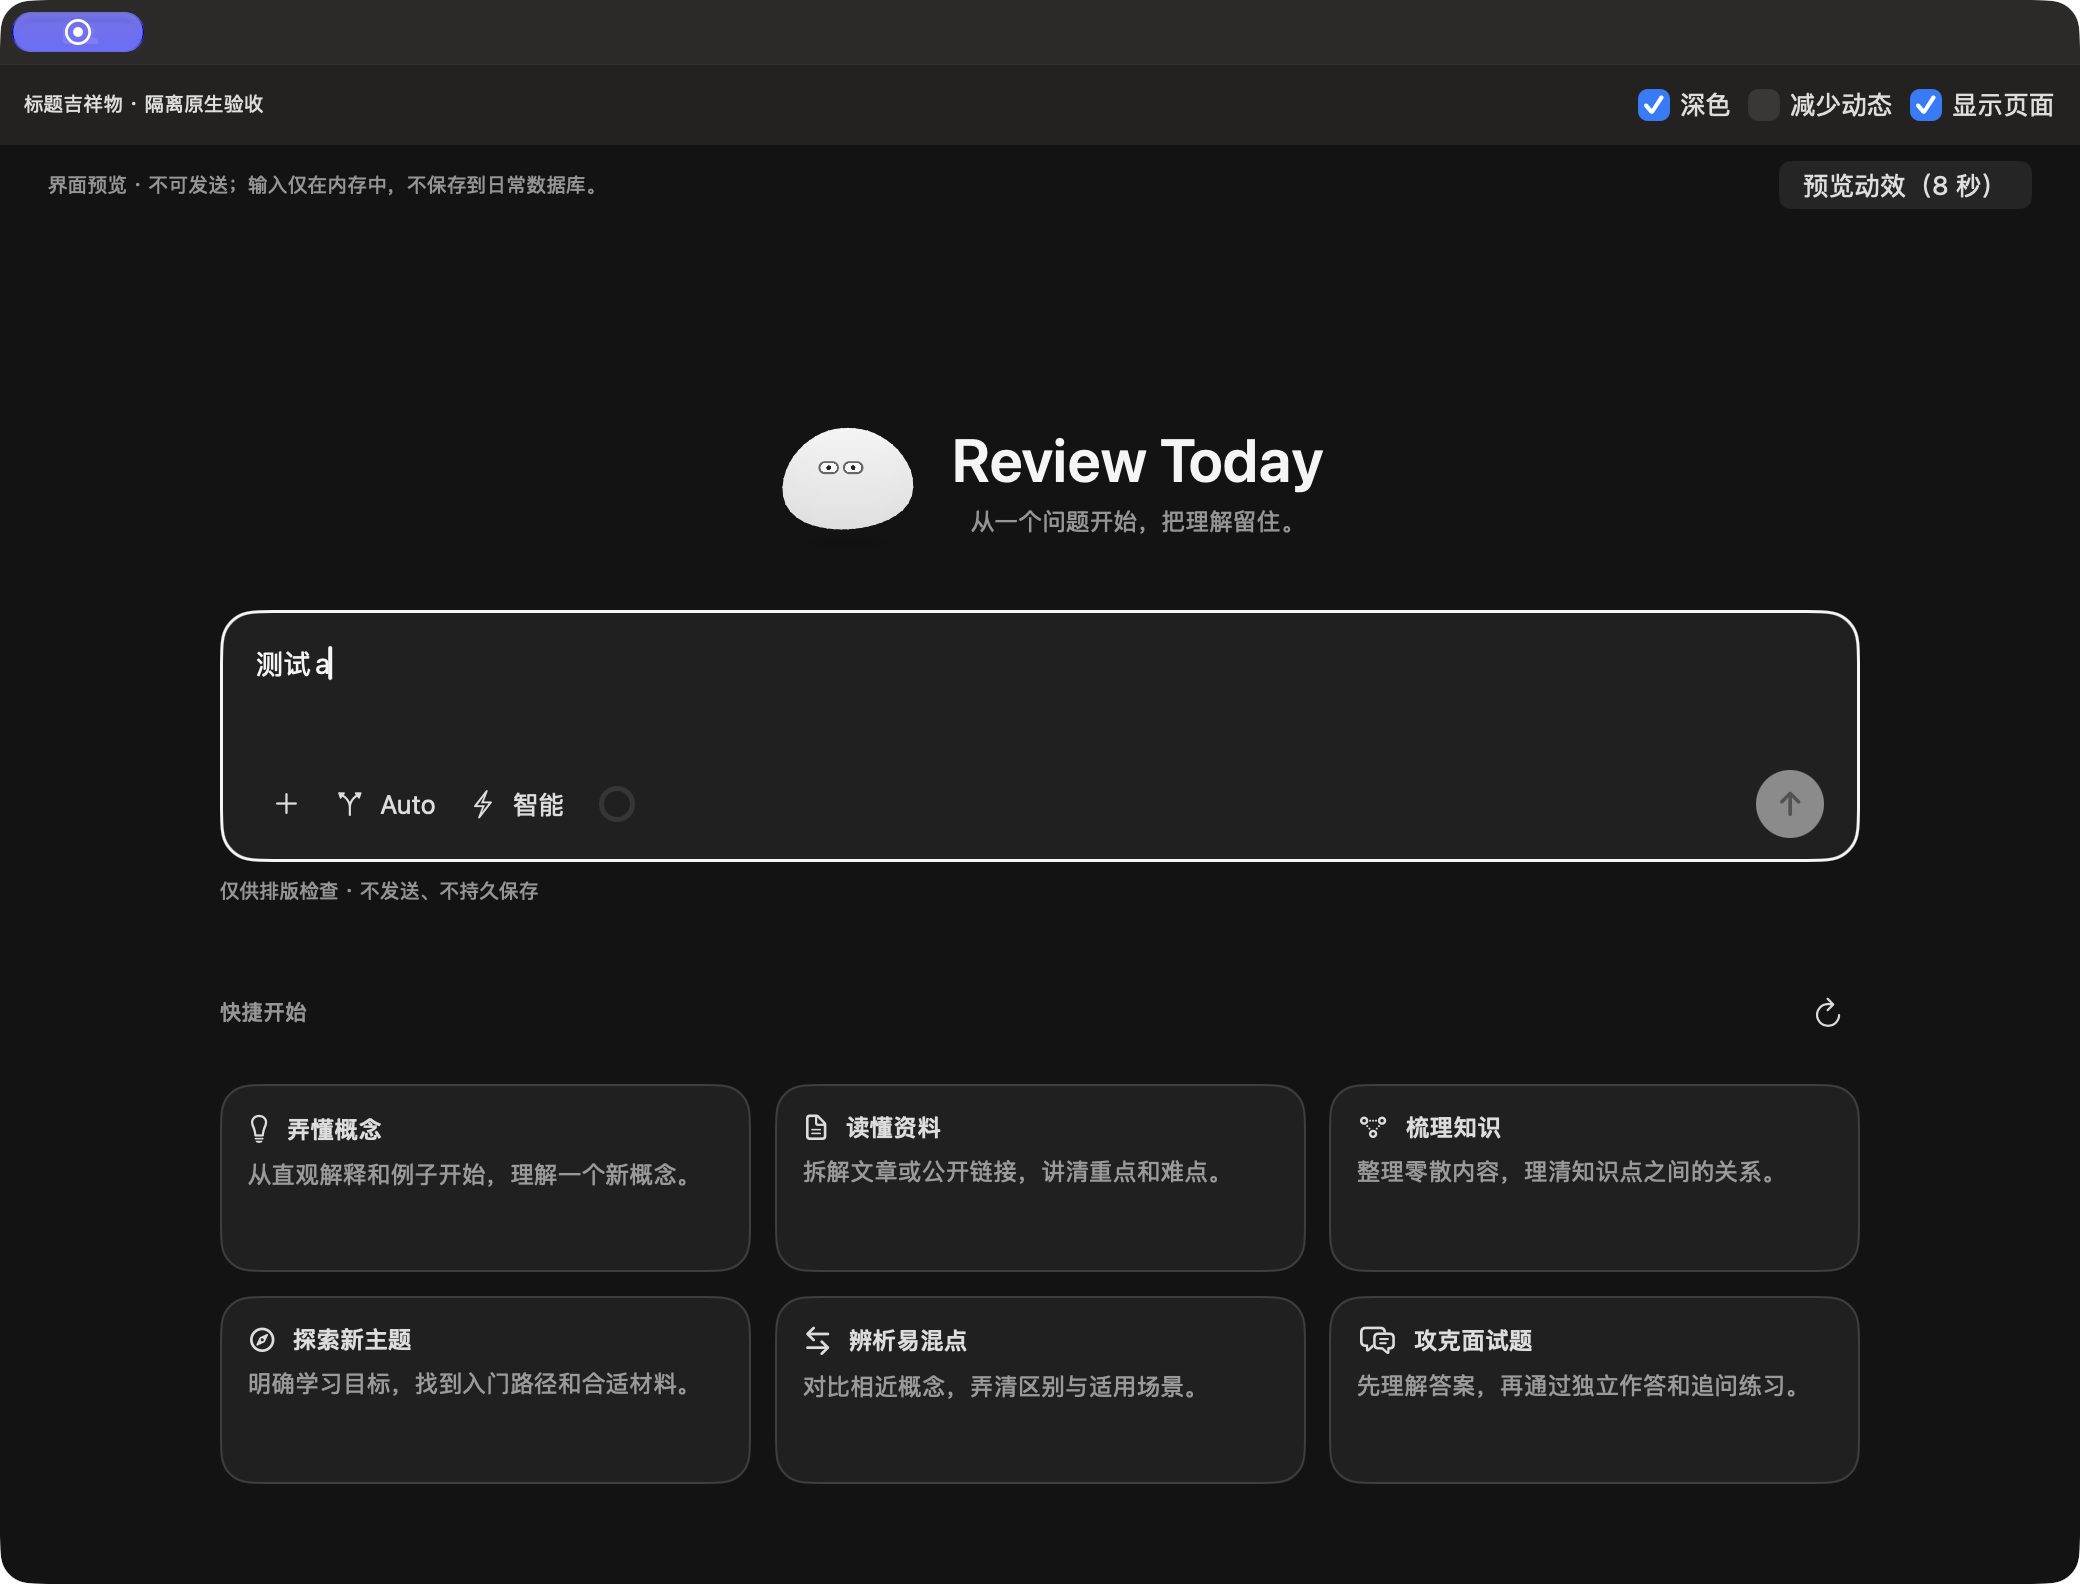
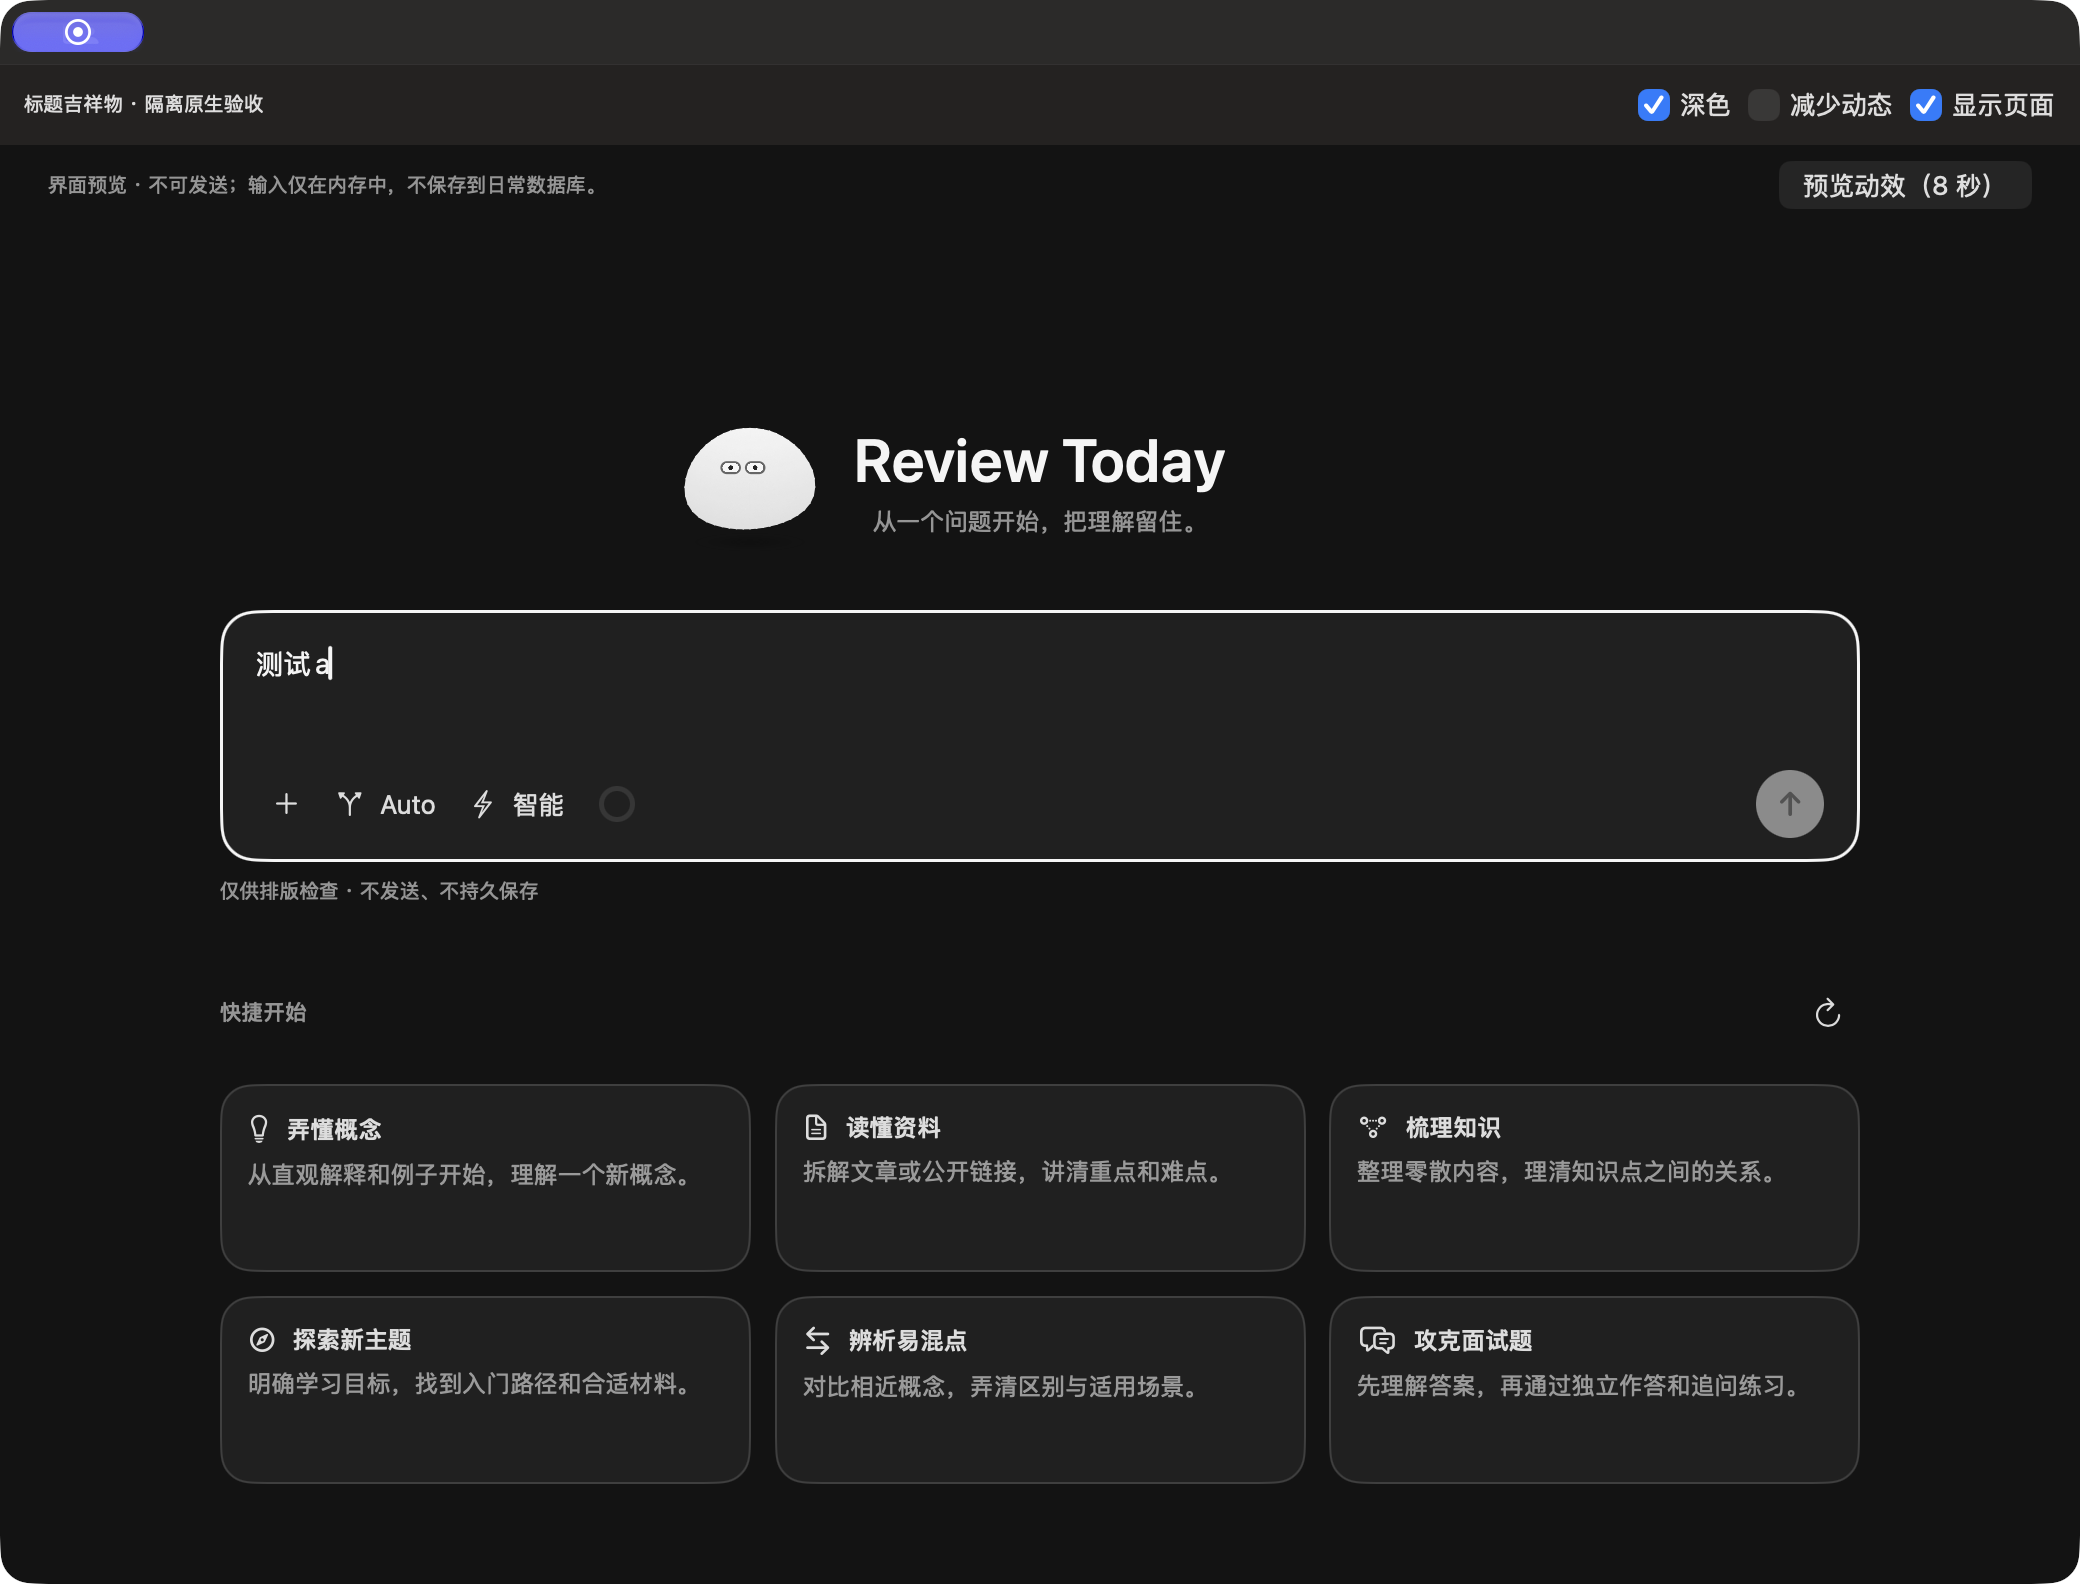
以产品名和标语为基准居中 Agent 标题

Changed region(s): [[0.3125, 0.2475, 0.6562, 0.3403]]

diff --git a/Review_Today/AgentTitleMascot.swift b/Review_Today/AgentTitleMascot.swift
@@ -107,6 +107,9 @@ struct AgentLandingTitle: View {
                 Text("从一个问题开始，把理解留住。").font(.callout).foregroundStyle(.secondary)
             }
             .layoutPriority(1)
+            // Match the decoration's width so the text owns the content centerline.
+            Color.clear.frame(width: 92, height: 1)
+                .allowsHitTesting(false).accessibilityHidden(true)
         }
         .multilineTextAlignment(.center)
         .fixedSize(horizontal: false, vertical: true)

diff --git a/DESIGN.md b/DESIGN.md
@@ -2,15 +2,17 @@
 
 ## Agent 标题区 Mr. B（2026-09-15，首轮已实现／自测通过／视觉待验收）
 
-Rex 确认 Mr. B 放在产品名与 slogan 的左侧，角色与两行文字作为整体居中，角色对齐文字块的视觉中心；覆盖下方起始页只显示文字的旧规则。保留现有字号、品牌材质与输入入口，利用固定角色画布留出回弹余量，动作不推动文字或输入框。
+Rex 确认 Mr. B 放在产品名与 slogan 的左侧。2026-09-15 体验修订：以产品名与 slogan 的文字块对齐内容区中轴，吉祥物作为左侧装饰，不参与文字的居中基准；右侧保留等量透明空间以维持文字居中。角色仍对齐文字块的视觉中心，覆盖此前「角色与文字整体居中」的规则。保留现有字号、品牌材质与输入入口，利用固定角色画布留出回弹余量，动作不推动文字或输入框。
 
 首轮先制作眼神跟随与一个「吓了一跳」点击反应，实看比例与手感后再补其余两个反应。仅在 Agent 起始页出现；沿用无手、无嘴的 Mr. B 与现有 Spine 网格。眼神跟随当前窗口主内容区的指针，响应快、位移有界、轻微平滑；身体只在视线偏远时轻倾。用户打字时回正安静，重新移动指针再回应。离开内容区回正，离页、窗口失活或隐藏停止并清除反应，恢复不补播。
 
 点击短促压扁、回弹、睁眼后恢复；连续点击不排队、不叠加形变、不抢输入焦点，无声音或业务副作用。角色提供原生按钮语义与键盘操作。减少动态时不持续跟随、不弹跳，保留静态角色与原生按下反馈。首轮画布及动作参数是待视觉验收的实现起点，不代表最终接受。
 
-验收：标题整体居中与窄窗换行、浅深色、左右上下跟随、点击及连点、输入与中文预输入、切页／前后台、减少动态；以真实原生运行和原速记录判断动效，构建与静态图片不能代替体验验证。
+验收：标题文字居中与窄窗换行、浅深色、左右上下跟随、点击及连点、输入与中文预输入、切页／前后台、减少动态；以真实原生运行和原速记录判断动效，构建与静态图片不能代替体验验证。Rex 已确认当前点击交互 OK，本次仅调整排版，保留已确认的点击表现。
 
-首轮已接入日常 Agent 起始页，完成签名构建、15 项动作／材质检查、现有输入／焦点／导航回归及实际页面的隔离原生验证。中文预输入和点击焦点保持已复测；角色按钮遵循系统的所有控件键盘导航设置，完整键盘／VoiceOver 路径尚未验证。原速录像、浅深／窄窗图与复跑入口见 [标题区验证](docs/evidence/2026-09-15-agent-title/README.md)。另外两种点击反应未制作，当前比例与手感待 Rex 验收。
+文字居中修订已通过签名构建及日常／窄窗口排版检查。本次全套原生复测两次分别停在最小化停止、向下跟随断言，原因未确定；具体通过项与失败项见验证记录，不作为本次全套通过证据。
+
+首轮已接入日常 Agent 起始页，完成签名构建、15 项动作／材质检查、现有输入／焦点／导航回归及实际页面的隔离原生验证。中文预输入和点击焦点保持已复测；角色按钮遵循系统的所有控件键盘导航设置，完整键盘／VoiceOver 路径尚未验证。原速录像、浅深／窄窗图与复跑入口见 [标题区验证](docs/evidence/2026-09-15-agent-title/README.md)。另外两种点击反应未制作；点击交互已获 Rex 认可，修订后的文字居中排版待验收。
 
 ## 主页面轻抬入（2026-09-13，加强版已实现／自测完成／节奏待 Rex 验收）
 

diff --git a/docs/evidence/2026-09-15-agent-title/README.md b/docs/evidence/2026-09-15-agent-title/README.md
@@ -2,19 +2,21 @@
 
 ## 范围
 
-Rex 确认吉祥物位于产品名与 slogan 左侧。首轮为四向眼神跟随及一个点击回弹，另外两个随机反应尚未制作，当前视觉与手感待 Rex 验收。
+Rex 确认吉祥物位于产品名与 slogan 左侧。首轮为四向眼神跟随及一个点击回弹，另外两个随机反应尚未制作。Rex 已确认当前点击交互 OK；随后按反馈改为文字块对齐内容区中轴，吉祥物作为左侧装饰，修订排版待视觉验收。
 
 复用现有 Spine 4.2.120 骨架、加权网格、渲染器及浅深材质。`header-player.mjs` 是宿主输入驱动的骨骼姿态控制，不是新增可在 Spine 编辑器中打开的固定时间轴。角色画布为 92×74 pt，内部按钮为 76×62 pt；眼神 60 Hz 上限合并传递，不刷新学习页面状态；点击反应约 720 ms，播放中连点不排队。
 
 ## 验证环境与证据
 
+- 文字居中修订：签名 Debug 构建通过；日常 Agent 页面和隔离 520 pt 窄窗口目视确认文字与内容中轴对齐。四张静态图已更新为文字居中布局；原速录像及原有通过日志保留首轮整体居中版本。
+- 本次全套原生复测未完整通过：第一次通过四向、点击、连点、中文预输入、输入回正及减少动态，随后最小化停止断言失败；第二次在向下跟随断言失败。原因尚未确定，详见 [本次复测记录](text-centering-checks.txt)。本次仅改变标题排版，未修改跟随、点击及可见性逻辑。
 - macOS 27.0 (26A428)，Xcode 27.0 (27A266a)，Apple Silicon。
 - 隔离 App 使用实际 `LearningWorkspace`、实际输入组件与离线 Spine 渲染器，SwiftData 仅内存，不发送模型请求。
 - [浅色](light.png)、[深色](dark.png)、[减少动态](reduced.png)、[520 pt 窄窗口](narrow.png)。
 - [原速原生录屏](native-interaction.mp4)：ScreenCaptureKit 仅录制测试进程自己的窗口，无声音；鼠标／点击／键盘事件由原生测试程序投递，视频时钟跟随实际运行时间，不是离线合成动画。录屏中的系统指针不代表每个测试事件的坐标。
 - 日常签名 App 通过 CUA 查看 Agent 起始页及实际拖动指针；未向日常输入框写测试内容或发送消息。
 
-## 通过的检查
+## 首轮通过的检查（文字居中修订前）
 
 - 15 项 Node 检查：新增跟随／收势／连点／网格／眼白边界，以及原有待机与材质回归。
 - `InteractionFocusTests`、`LearningInputContractTests`、`NavigationRenderContractTests`：现有焦点、中文预输入、草稿及导航契约回归通过。
